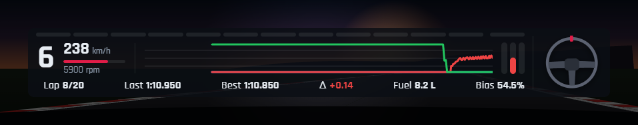
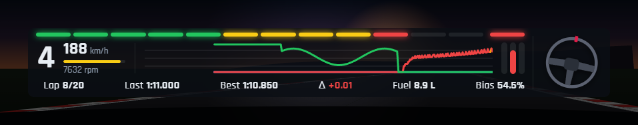
delta lap removed + rpm redline strobe treshold added

diff --git a/src/renderer/widgets/delta.js b/src/renderer/widgets/delta.js
@@ -1,6 +1,6 @@
 /*
  * Delta bar, plus two small gap bars: seconds to the car ahead and behind, with
- * a fill that grows as the gap closes and a trend (per lap) showing who is gaining.
+ * a fill that grows as the gap closes, colored green while we gain on that car and red while we lose.
  */
 Host.css(`
 .delta { position:absolute; inset:0; display:flex; flex-direction:column; justify-content:center; padding:.3rem .5rem; gap:.25rem; }
@@ -16,7 +16,6 @@ Host.css(`
 .delta .gap .lbl { color:var(--dim); font-weight:700; letter-spacing:.04em; }
 .delta .gap .who { color:var(--dim); overflow:hidden; text-overflow:ellipsis; flex:1; min-width:0; }
 .delta .gap .sec { font-size:.95rem; font-weight:700; }
-.delta .gap .tr { font-weight:700; font-size:.7rem; }
 .delta .gap .gbar { height:.3rem; background:rgba(255,255,255,.07); border-radius:2px; overflow:hidden; position:relative; }
 .delta .gap .gbar i { position:absolute; top:0; bottom:0; border-radius:2px; transition: width .25s, background .25s; }
 .delta .gap.ahead .gbar i { right:0; }
@@ -28,8 +27,8 @@ Host.register('delta', function (root) {
     <div class="row"><small class="l"></small><span class="val">–</span><small class="r"></small></div>
     <div class="bar"><i></i></div>
     <div class="gaps">
-      <div class="gap ahead"><div class="top"><span class="lbl">▲ AHEAD</span><span class="who"></span><span class="tr"></span><span class="sec">–</span></div><div class="gbar"><i></i></div></div>
-      <div class="gap behind"><div class="top"><span class="lbl">▼ BEHIND</span><span class="who"></span><span class="tr"></span><span class="sec">–</span></div><div class="gbar"><i></i></div></div>
+      <div class="gap ahead"><div class="top"><span class="lbl">▲ AHEAD</span><span class="who"></span><span class="sec">–</span></div><div class="gbar"><i></i></div></div>
+      <div class="gap behind"><div class="top"><span class="lbl">▼ BEHIND</span><span class="who"></span><span class="sec">–</span></div><div class="gbar"><i></i></div></div>
     </div>
   </div>`;
   const q = (s) => root.querySelector(s);
@@ -81,14 +80,14 @@ Host.register('delta', function (root) {
 
   function renderGap(side, n, s, t, lapTime) {
     const el = q('.gap.' + side);
-    const secEl = el.querySelector('.sec'), whoEl = el.querySelector('.who'), trEl = el.querySelector('.tr'), bar = el.querySelector('.gbar i');
+    const secEl = el.querySelector('.sec'), whoEl = el.querySelector('.who'), bar = el.querySelector('.gbar i');
     if (!n || !n.car) {
-      secEl.textContent = '–'; whoEl.textContent = ''; trEl.textContent = ''; bar.style.width = '0';
+      secEl.textContent = '–'; whoEl.textContent = ''; bar.style.width = '0';
       hist[side].length = 0;
       return;
     }
     whoEl.textContent = s.gapNames ? `#${n.car.number} ${Fmt.driverName(n.car, 'last')}` : '';
-    if (n.laps >= 1) { secEl.textContent = `${n.laps}L`; bar.style.width = '0'; trEl.textContent = ''; return; }
+    if (n.laps >= 1) { secEl.textContent = `${n.laps}L`; bar.style.width = '0'; return; }
     if (n.gap === null) { secEl.textContent = '–'; bar.style.width = '0'; return; }
     secEl.textContent = n.gap.toFixed(n.gap < 10 ? 2 : 1) + 's';
     const close = Math.max(0, 1 - n.gap / s.gapScale);
@@ -97,8 +96,6 @@ Host.register('delta', function (root) {
     const color = good ? t.green : bad ? t.red : side === 'ahead' ? t.accent : t.yellow;
     bar.style.width = (close * 100).toFixed(1) + '%';
     bar.style.background = color;
-    trEl.textContent = s.gapTrend && tr !== null && (good || bad) ? `${tr > 0 ? '+' : '−'}${Math.abs(tr).toFixed(2)}/lap` : '';
-    trEl.style.color = good ? t.green : t.red;
   }
 
   return {

diff --git a/src/main/main.js b/src/main/main.js
@@ -134,21 +134,30 @@ function sessionAllowed(s, st) {
 
 // Auto-hide while not driving (garage, setup, menus) or while stopped in the pits.
 // Stopping has a short delay so a slow pit-lane crawl doesn't flicker; driving off shows at once.
+// Returns { notDriving, inPits }; each overlay decides what to do in the pits (overlayAutoHidden).
 let stoppedSince = null;
 function autoHidden(st) {
-  if (source !== 'iracing' || !st || !st.player) return false;
+  const none = { notDriving: false, inPits: false };
+  if (source !== 'iracing' || !st || !st.player) return none;
   const g = config.data.global, p = st.player;
   // out of the car iRacing reports a replay (spectator view), so replays hide too unless enabled
-  if (st.session && st.session.replay && g.showInReplays) return false;
-  if (g.hideWhenNotDriving && (!p.onTrack || p.inGarage)) return true;
-  if (g.hideWhenStoppedInPits) {
-    const stopped = p.inPitStall || (p.onPitRoad && p.speed < 1);
-    if (stopped && p.speed < 2) {
-      if (stoppedSince === null) stoppedSince = Date.now();
-      if (Date.now() - stoppedSince > 800) return true;
-    } else stoppedSince = null;
-  }
-  return false;
+  if (st.session && st.session.replay && g.showInReplays) return none;
+  const notDriving = g.hideWhenNotDriving && (!p.onTrack || p.inGarage);
+  const stopped = p.inPitStall || (p.onPitRoad && p.speed < 1);
+  let inPits = false;
+  if (stopped && p.speed < 2) {
+    if (stoppedSince === null) stoppedSince = Date.now();
+    inPits = Date.now() - stoppedSince > 800;
+  } else stoppedSince = null;
+  return { notDriving, inPits };
+}
+
+// Per overlay "In the pits": follow the General setting, keep showing, or hide.
+function overlayAutoHidden(s, auto) {
+  if (auto.notDriving) return true;
+  if (!auto.inPits) return false;
+  const rule = s.inPits || 'global';
+  return rule === 'hide' || (rule === 'global' && config.data.global.hideWhenStoppedInPits);
 }
 
 function pickState(st, needs) {
@@ -226,12 +235,12 @@ function setSource(s) {
 
 function pushToOverlays() {
   const now = Date.now();
-  const hideAuto = !editMode && autoHidden(latestState);
+  const auto = editMode ? { notDriving: false, inPits: false } : autoHidden(latestState);
   for (const [id, o] of overlayWins) {
     if (!o.ready) continue;
     const s = config.overlay(id);
     const def = Registry.byId(id);
-    const shouldShow = !hiddenByUser && (editMode || (source !== 'none' && !hideAuto && sessionAllowed(s, latestState)));
+    const shouldShow = !hiddenByUser && (editMode || (source !== 'none' && !overlayAutoHidden(s, auto) && sessionAllowed(s, latestState)));
     if (shouldShow !== o.visible) {
       o.visible = shouldShow;
       if (shouldShow) o.win.showInactive(); else o.win.hide();

diff --git a/src/shared/registry.js b/src/shared/registry.js
@@ -20,6 +20,8 @@
     { key: 'showInQualify', label: 'Show in qualifying', type: 'bool', default: true },
     { key: 'showInRace', label: 'Show in race', type: 'bool', default: true },
     { key: 'onlyOnTrack', label: 'Hide when not in car', type: 'bool', default: false },
+    { key: 'inPits', label: 'When stopped in the pits', type: 'select', default: 'global',
+      options: [{ value: 'global', label: 'Follow the General setting' }, { value: 'show', label: 'Keep showing' }, { value: 'hide', label: 'Hide' }] },
   ];
 
   const STANDINGS_COLUMNS = [
@@ -162,6 +164,7 @@
       description: 'Consumption per lap, laps remaining, fuel to finish and to add at next stop.',
       bounds: { x: 1260, y: 380, width: 300, height: 220 },
       needs: ['player', 'fuel', 'session'],
+      defaults: { inPits: 'show' }, // fuel to add matters most in the pit box
       schema: [
         { key: 'avgLaps', label: 'Laps used for average', type: 'number', min: 1, max: 20, default: 5 },
         { key: 'safetyMargin', label: 'Safety margin (laps)', type: 'range', min: 0, max: 3, step: 0.1, default: 0.5 },
@@ -189,7 +192,6 @@
         { key: 'gapMode', label: 'Gaps measured to', type: 'select', default: 'auto',
           options: [{ value: 'auto', label: 'Auto (class position in races, track otherwise)' }, { value: 'position', label: 'Car ahead / behind in class position' }, { value: 'track', label: 'Nearest car on track' }] },
         { key: 'gapScale', label: 'Gap bar full at (s)', type: 'range', min: 0.5, max: 10, step: 0.5, default: 3 },
-        { key: 'gapTrend', label: 'Show gaining / losing per lap', type: 'bool', default: true },
         { key: 'gapNames', label: 'Show driver name & number', type: 'bool', default: true },
       ],
     },

diff --git a/src/renderer/settings.js b/src/renderer/settings.js
@@ -403,7 +403,7 @@
       field({ label: 'Data source', type: 'select', options: [{ value: 'auto', label: 'Auto (iRacing, demo while editing)' }, { value: 'iracing', label: 'iRacing only' }, { value: 'demo', label: 'Demo data always' }] }, g.dataSource, (v) => setGlobal({ dataSource: v })),
       field({ label: 'Units', type: 'select', options: [{ value: 'auto', label: 'Follow iRacing setting' }, { value: 'metric', label: 'Metric' }, { value: 'imperial', label: 'Imperial' }] }, g.units, (v) => setGlobal({ units: v })),
       field({ label: 'Hide overlays when not driving (garage, setup screen, menus)', type: 'bool' }, g.hideWhenNotDriving, (v) => setGlobal({ hideWhenNotDriving: v })),
-      field({ label: 'Hide overlays when stopped in the pits', type: 'bool' }, g.hideWhenStoppedInPits, (v) => setGlobal({ hideWhenStoppedInPits: v })),
+      field({ label: 'Hide overlays when stopped in the pits (each overlay can override this on its own page)', type: 'bool' }, g.hideWhenStoppedInPits, (v) => setGlobal({ hideWhenStoppedInPits: v })),
       field({ label: 'Show overlays while watching replays / spectating', type: 'bool' }, g.showInReplays, (v) => setGlobal({ showInReplays: v })),
       field({ label: 'Follow camera car in replays / spectating', type: 'bool' }, g.focusCamCar, (v) => setGlobal({ focusCamCar: v })),
       field({ label: 'Snap to grid while dragging (px, 0 = off)', type: 'number', min: 0, max: 50 }, g.snapToGrid, (v) => setGlobal({ snapToGrid: v })),

diff --git a/README.md b/README.md
@@ -18,7 +18,7 @@ Standings, relative, dashboard & inputs, lap timing, fuel, delta, an auto-learne
 
 <p align="center">
   <img src="docs/gifs/delta.gif" width="520" alt="Delta bar swinging between gaining and losing time, with gap bars to the cars ahead and behind"><br>
-  <sub><b>Delta bar:</b> green when you're up on your best lap, red when you're down. Below: gaps to the cars ahead and behind, and how much you gain or lose per lap.</sub>
+  <sub><b>Delta bar:</b> green when you're up on your best lap, red when you're down. Below: gaps to the cars ahead and behind, turning green while you gain on them and red while you lose time.</sub>
 </p>
 
 <p align="center">
@@ -110,7 +110,7 @@ and show again when you drive.
 | **Dashboard & Inputs** | Car-specific shift lights with a bright blue over-rev strobe (you choose where it starts), gear, speed, RPM, a throttle/brake/clutch trace, pedal bars, a steering wheel, lap/last/best/delta, fuel, brake bias, engine warnings, pit limiter, and a **wheelspin / lock-up light** that strobes while you're slipping. Every part can be switched off |
 | **Lap Timing** | Live sector times (green = personal best, purple = class best), last/best/optimal lap, and a lap log with sectors, delta, fuel used, and off-track/pit markers |
 | **Fuel Calculator** | Average, last and max fuel per lap (green-flag laps only), laps left, fuel to finish with a safety margin, amount to add, stops needed |
-| **Delta Bar** | Live delta to your best, optimal, session best or last lap, predicted lap time, and gap bars to the cars directly ahead and behind, showing whether you're gaining or losing per lap |
+| **Delta Bar** | Live delta to your best, optimal, session best or last lap, predicted lap time, and gap bars to the cars directly ahead and behind that turn green while you gain and red while you lose |
 | **Track Map** | **Learned automatically** from your first clean lap, then saved for that track. Shows every car in class colors, cars in the pits and the start/finish line |
 | **Session Info** | Session, time or laps left, lap, position, incidents vs limit, SOF, temperatures, track wetness, local and sim time |
 | **Flags** | A big flag indicator: checkered, red, black, meatball, caution, debris, yellow, blue, white, one-to-green and green. **Off by default**; turn it on in settings |
@@ -167,7 +167,9 @@ Set `border=0` in `Documents\iRacing\rendererDX11Monitor.ini` (and in `rendererD
 with iRacing closed.
 
 **The overlays disappear when I stop in the pits.**
-That's on purpose, so they don't clutter the screen. You can change it in *General & hotkeys*.
+That's on purpose, so they don't clutter the screen. The Fuel Calculator stays visible, since that's when you
+need it. Turn it off for all overlays in *General & hotkeys*, or choose per overlay: open the overlay's page and
+set **When stopped in the pits** to *Keep showing* or *Hide*.
 
 **The track map is just a circle.**
 It learns the track from your first clean lap (no pit stop, no off-track). After that it's saved for that track.
